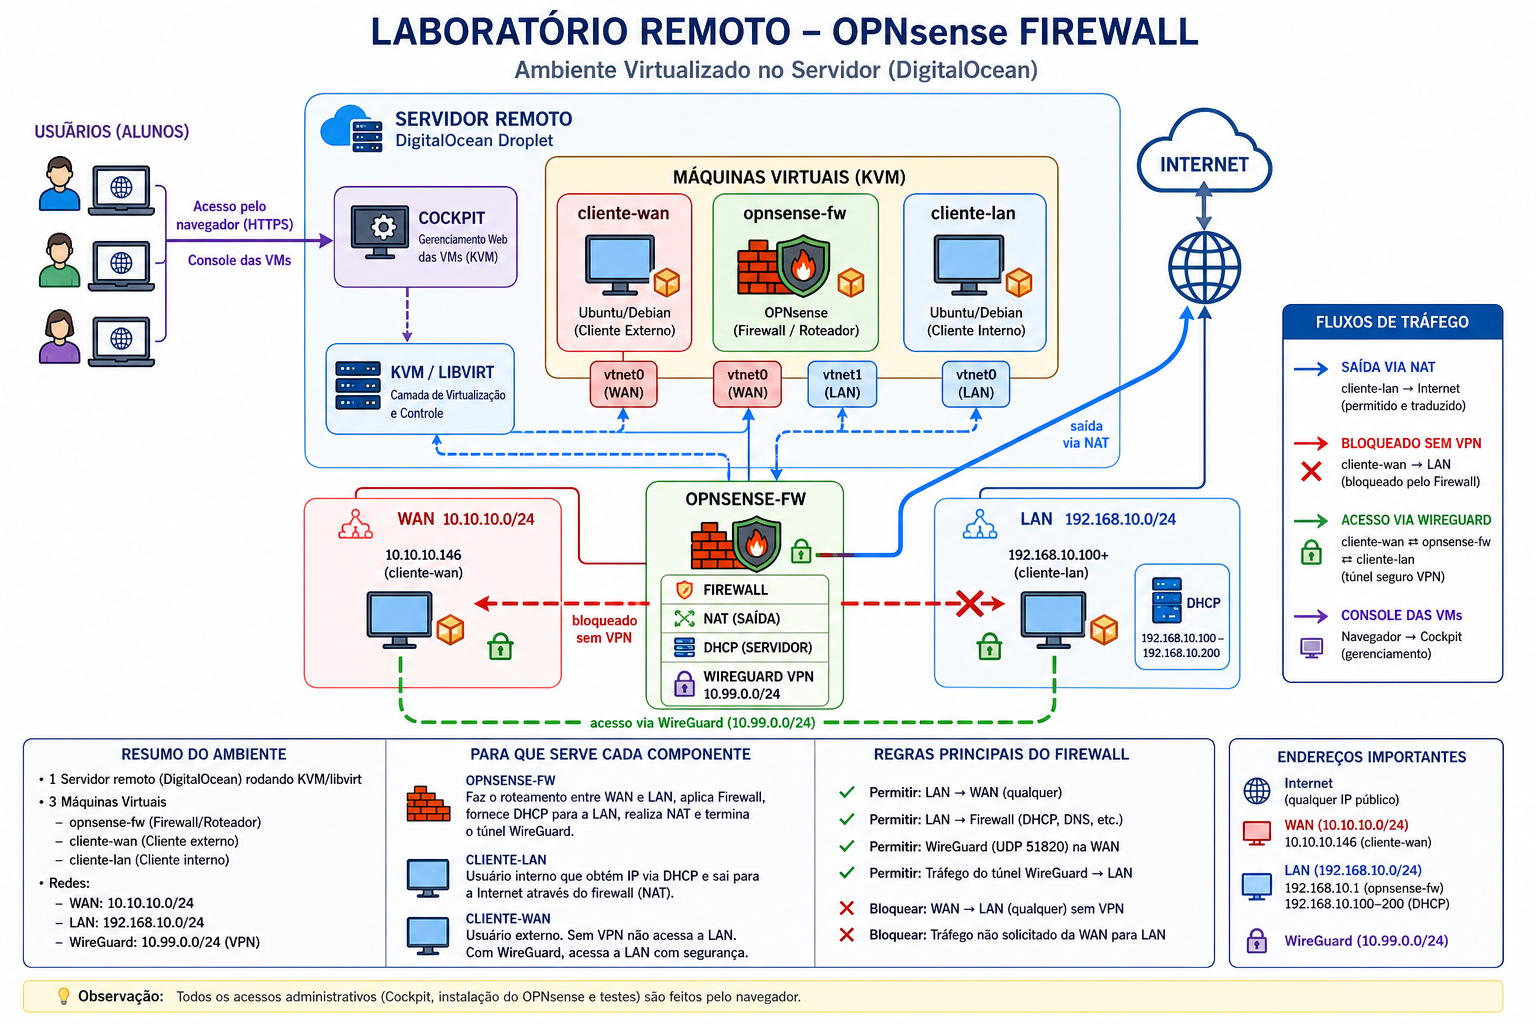
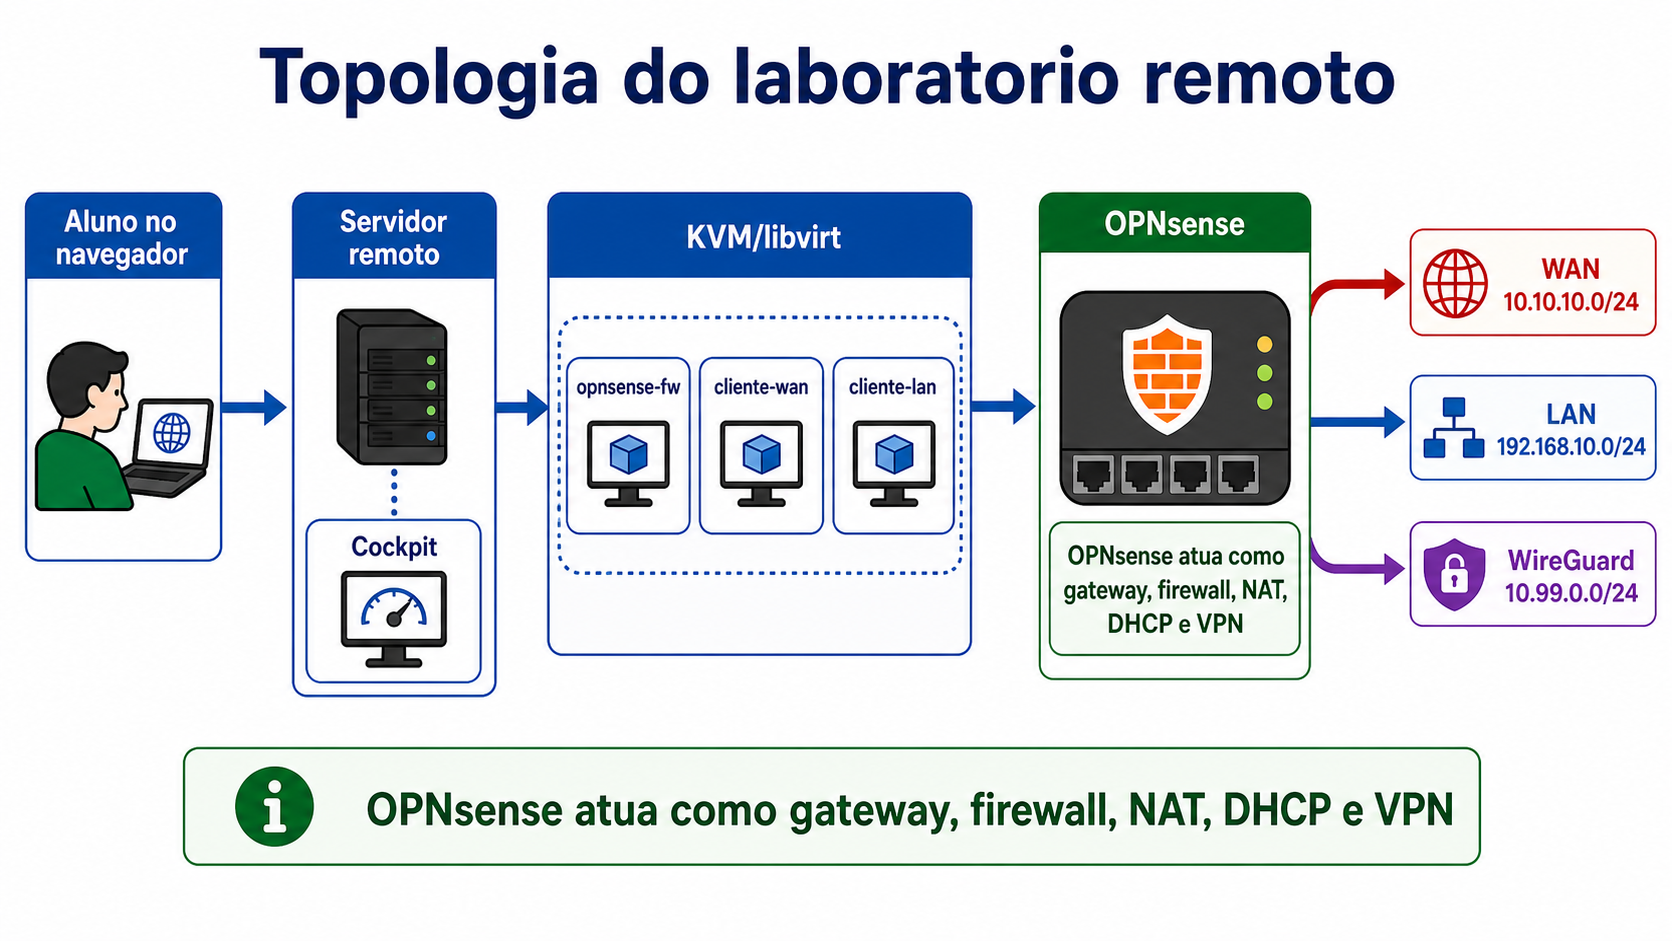
Ajusta pacote local do Drive

diff --git a/docs/arquivos-drive.md b/docs/arquivos-drive.md
@@ -6,7 +6,7 @@ Link usado pelo projeto:
 https://drive.google.com/drive/u/0/folders/1Nov2k5MaHthKGU58kkjkTqK25pcs-Agj
 ```
 
-Essa pasta guarda os arquivos grandes e sensíveis que não entram no GitHub.
+Essa pasta guarda os arquivos grandes das VMs que não entram no GitHub.
 
 ## Conteúdo Esperado
 
@@ -18,25 +18,20 @@ Essa pasta guarda os arquivos grandes e sensíveis que não entram no GitHub.
 | `noble-server-cloudimg-amd64.img` | imagem base dos clientes Ubuntu | `local/vm-images/` |
 | `cliente-lan.iso` | cloud-init do cliente LAN | `local/vm-images/` |
 | `cliente-wan.iso` | cloud-init do cliente WAN | `local/vm-images/` |
-| `ufs_so_lab_do` | chave SSH privada do laboratório | `~/.ssh/ufs_so_lab_do` |
-| `ufs_so_lab_do.pub` | chave SSH pública do laboratório | `~/.ssh/ufs_so_lab_do.pub` |
 
-## Conferência
+## Como Usar
 
-Depois de baixar as imagens:
+Depois de baixar os arquivos:
 
 ```bash
 mkdir -p local/vm-images
 cp /caminho/dos/downloads/*.qcow2 local/vm-images/
 cp /caminho/dos/downloads/*.img local/vm-images/
 cp /caminho/dos/downloads/*.iso local/vm-images/
-
-cd local/vm-images
-sha256sum -c ../../infra/vm-images.sha256
-cd ../..
 ```
 
-Todos os itens devem retornar `OK`.
+As chaves SSH não fazem parte do pacote do Drive. Elas ficam somente na máquina
+local usada para executar a apresentação.
 
 ## Pasta Local Para Upload
 
@@ -47,3 +42,17 @@ local/drive-upload/
 ```
 
 Ela contém uma cópia organizada do que deve ser enviado ao Drive.
+
+Estrutura esperada:
+
+```text
+local/drive-upload/
+├── LEIA-ME.txt
+└── vm-images/
+    ├── cliente-lan.iso
+    ├── cliente-lan.qcow2
+    ├── cliente-wan.iso
+    ├── cliente-wan.qcow2
+    ├── noble-server-cloudimg-amd64.img
+    └── opnsense-fw-installed.qcow2
+```

diff --git a/INSTALACAO.md b/INSTALACAO.md
@@ -70,13 +70,11 @@ Ela deve conter:
 | `noble-server-cloudimg-amd64.img` | imagem base Ubuntu dos clientes |
 | `cliente-lan.iso` | cloud-init do cliente LAN |
 | `cliente-wan.iso` | cloud-init do cliente WAN |
-| `ufs_so_lab_do` | chave SSH privada usada pelo dashboard |
-| `ufs_so_lab_do.pub` | chave SSH pública |
 
 Crie as pastas e copie os arquivos:
 
 ```bash
-mkdir -p local/vm-images ~/.ssh
+mkdir -p local/vm-images
 
 # ajuste o caminho abaixo para onde o navegador salvou os arquivos
 cp ~/Downloads/opnsense-fw-installed.qcow2 local/vm-images/
@@ -85,21 +83,10 @@ cp ~/Downloads/cliente-wan.qcow2 local/vm-images/
 cp ~/Downloads/noble-server-cloudimg-amd64.img local/vm-images/
 cp ~/Downloads/cliente-lan.iso local/vm-images/
 cp ~/Downloads/cliente-wan.iso local/vm-images/
-
-cp ~/Downloads/ufs_so_lab_do ~/.ssh/ufs_so_lab_do
-cp ~/Downloads/ufs_so_lab_do.pub ~/.ssh/ufs_so_lab_do.pub
-chmod 600 ~/.ssh/ufs_so_lab_do
 ```
 
-Conferir checksums:
-
-```bash
-cd local/vm-images
-sha256sum -c ../../infra/vm-images.sha256
-cd ../..
-```
-
-Todos devem aparecer como `OK`.
+O dashboard usa a chave SSH já configurada na máquina de apresentação. Essa
+chave não faz parte do pacote do Drive.
 
 ## 5. Subir Tudo
 
@@ -109,7 +96,7 @@ bash infra/setup-all.sh
 
 Esse comando faz:
 
-1. confere as imagens;
+1. verifica os arquivos de imagem;
 2. importa os discos para o pool do libvirt;
 3. cria as redes `wan-lab` e `lan-lab`;
 4. define e inicia `opnsense-fw`, `cliente-lan` e `cliente-wan`;

diff --git a/README.md b/README.md
@@ -15,8 +15,6 @@ web para executar as validações da apresentação.
 - `assets/`: imagens finais usadas nos slides e no README.
 - `presentation/`: lugar reservado para o slide final exportado.
 
-Arquivos grandes de VM, chaves SSH e rascunhos ficam fora do Git.
-
 ## Topologia
 
 O laboratório usa três VMs:
@@ -54,7 +52,7 @@ https://drive.google.com/drive/u/0/folders/1Nov2k5MaHthKGU58kkjkTqK25pcs-Agj
 
 Lista completa dos arquivos em [docs/arquivos-drive.md](docs/arquivos-drive.md).
 
-Depois coloque as imagens em `local/vm-images/`, a chave em `~/.ssh/`, e rode:
+Depois coloque as imagens em `local/vm-images/` e rode:
 
 ```bash
 bash infra/setup-all.sh
@@ -120,15 +118,3 @@ bash infra/run-dashboard-native.sh
 9. Parar o HTTP temporário.
 
 Detalhes em [docs/roteiro-validacao.md](docs/roteiro-validacao.md).
-
-## O Que Não Vai Para o GitHub
-
-Não versionar:
-
-- `*.qcow2`, `*.img`, `*.iso`
-- `.env`
-- chaves SSH
-- caches, rascunhos, LaTeX build e Playwright
-- pasta `local/`
-
-Esses itens são ignorados pelo `.gitignore`.